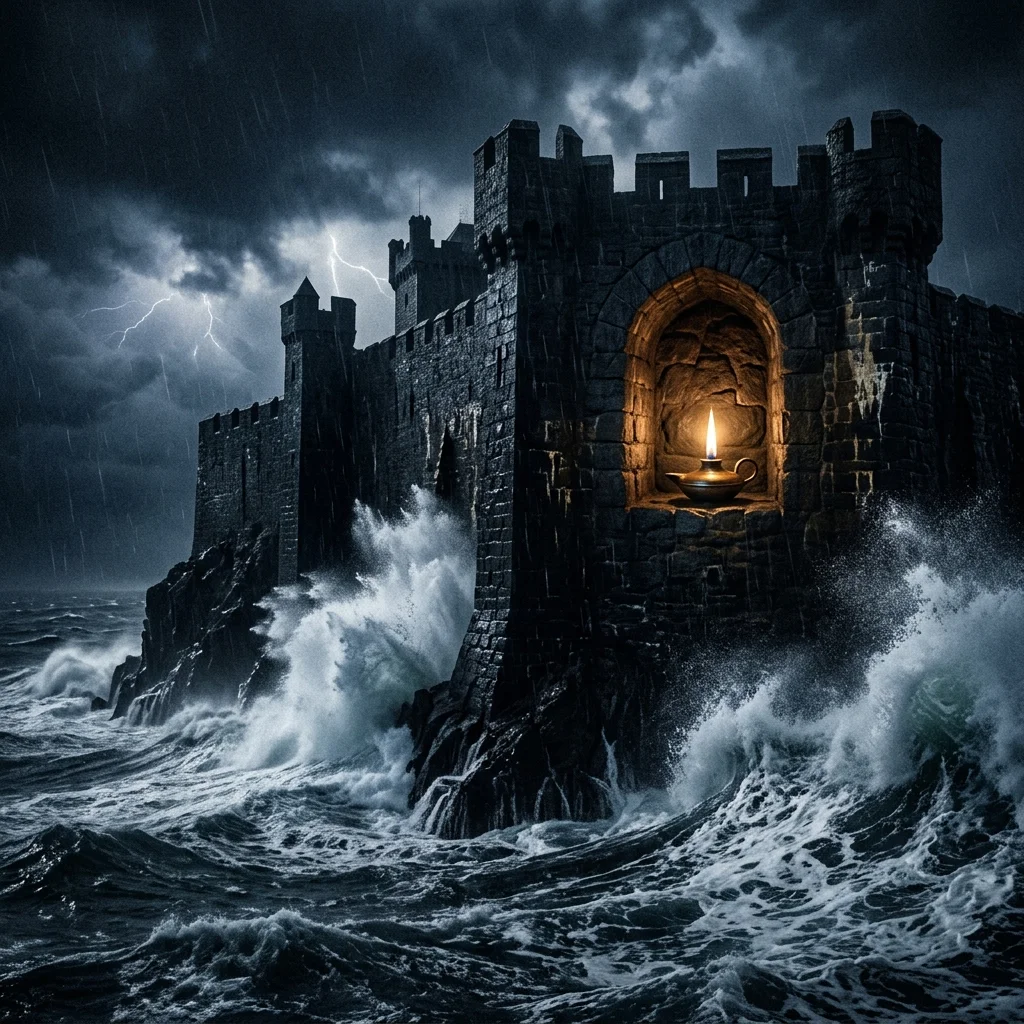
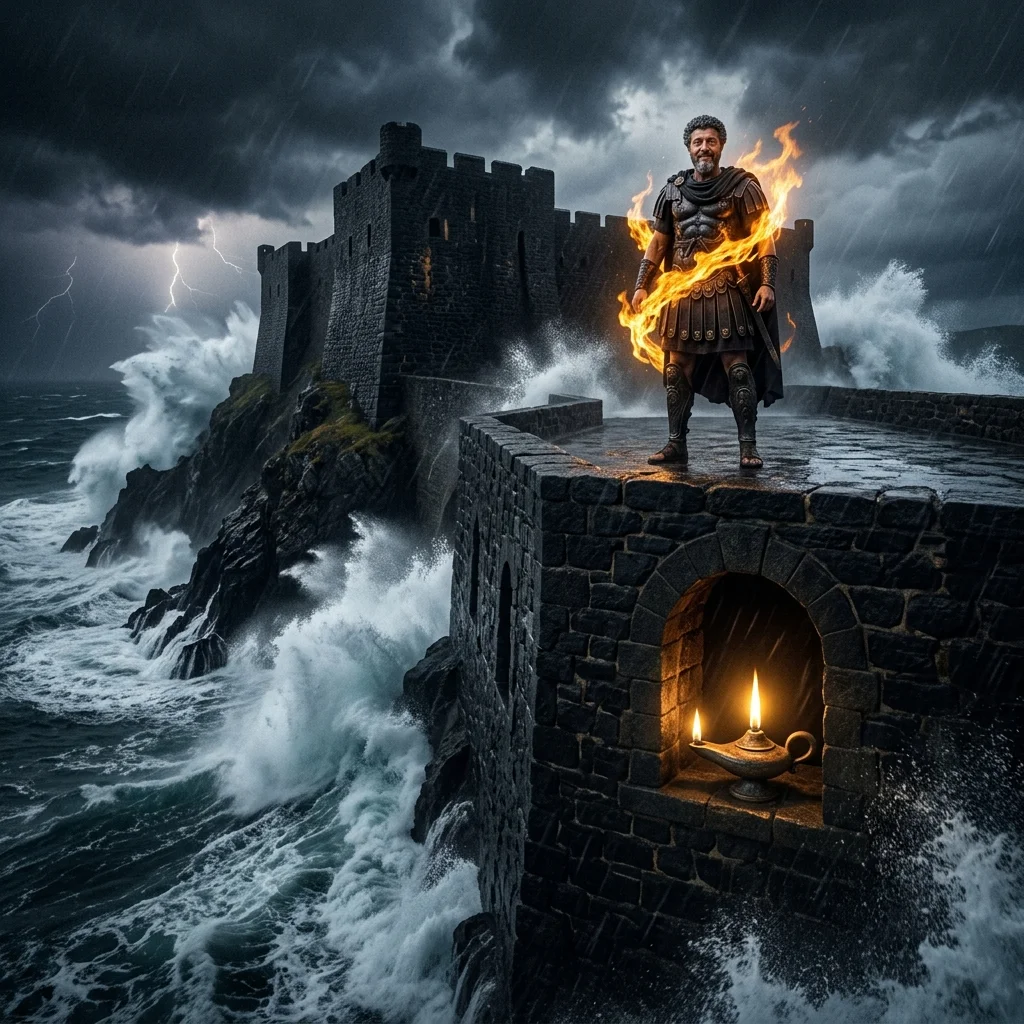
fix(ui,anchors): fix image cropping with aspect-ratio 1/1 and regenerate precise civilization philosophy anchors

diff --git a/app.py b/app.py
@@ -153,7 +153,7 @@ def get_anchor_image_html(topic_id: str, chunk_id: str) -> str:
                     with open(img_path, "rb") as f:
                         b64_data = base64.b64encode(f.read()).decode("utf-8")
                     mime = "image/svg+xml" if ext == ".svg" else f"image/{ext[1:]}"
-                    return f'<div style="text-align: center; margin: 10px 0 14px 0;"><img src="data:{mime};base64,{b64_data}" style="width: 100%; max-height: 250px; object-fit: cover; border-radius: 10px; border: 1px solid rgba(99, 102, 241, 0.4); box-shadow: 0 4px 15px rgba(0,0,0,0.4);" alt="Mỏ neo trực quan" /></div>'
+                    return f'<div style="text-align: center; margin: 10px 0 14px 0;"><img src="data:{mime};base64,{b64_data}" style="width: 100%; aspect-ratio: 1 / 1; object-fit: cover; border-radius: 10px; border: 1px solid rgba(99, 102, 241, 0.4); box-shadow: 0 4px 15px rgba(0,0,0,0.4);" alt="Mỏ neo trực quan" /></div>'
                 except Exception:
                     pass
     return ""
